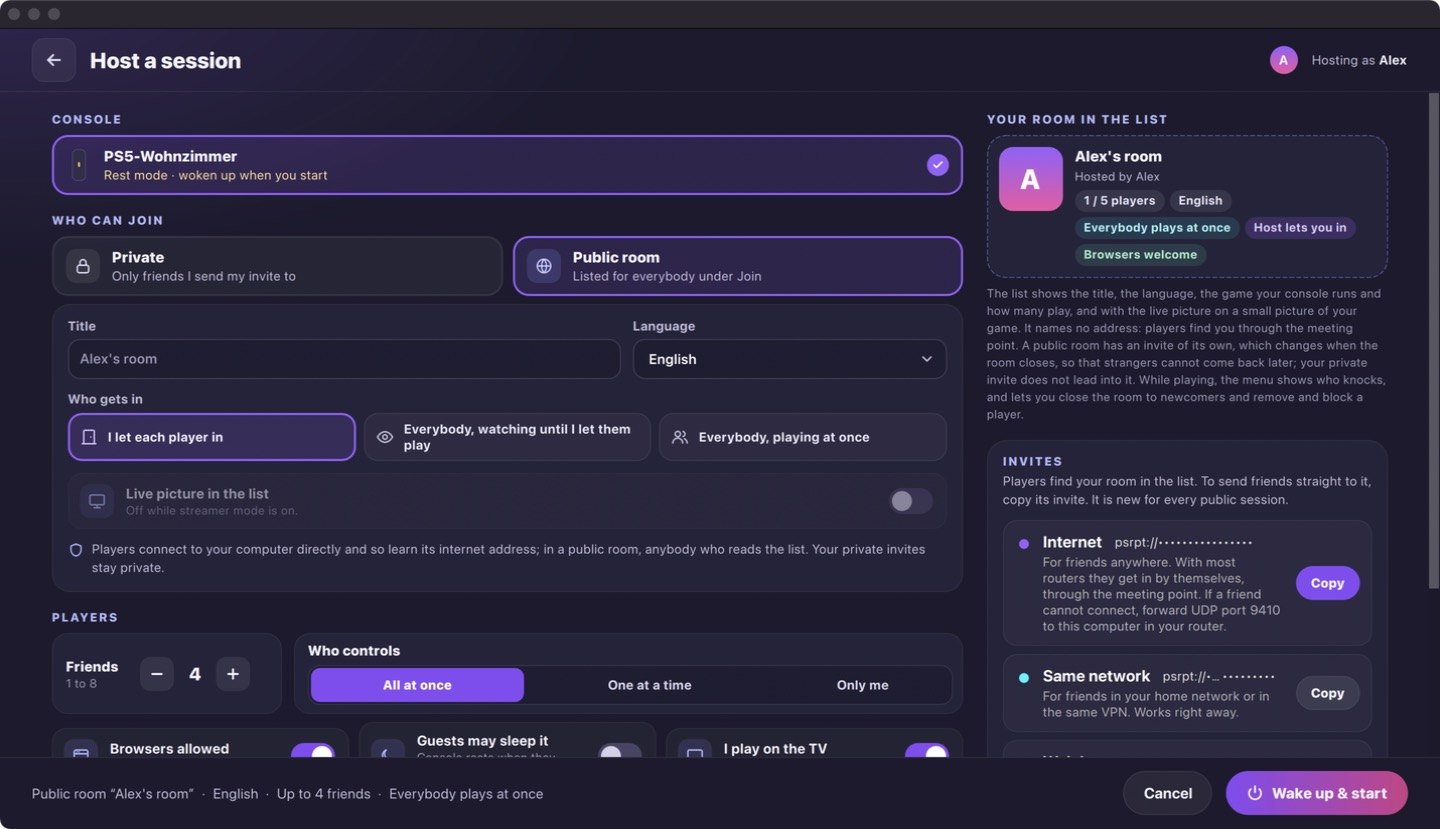
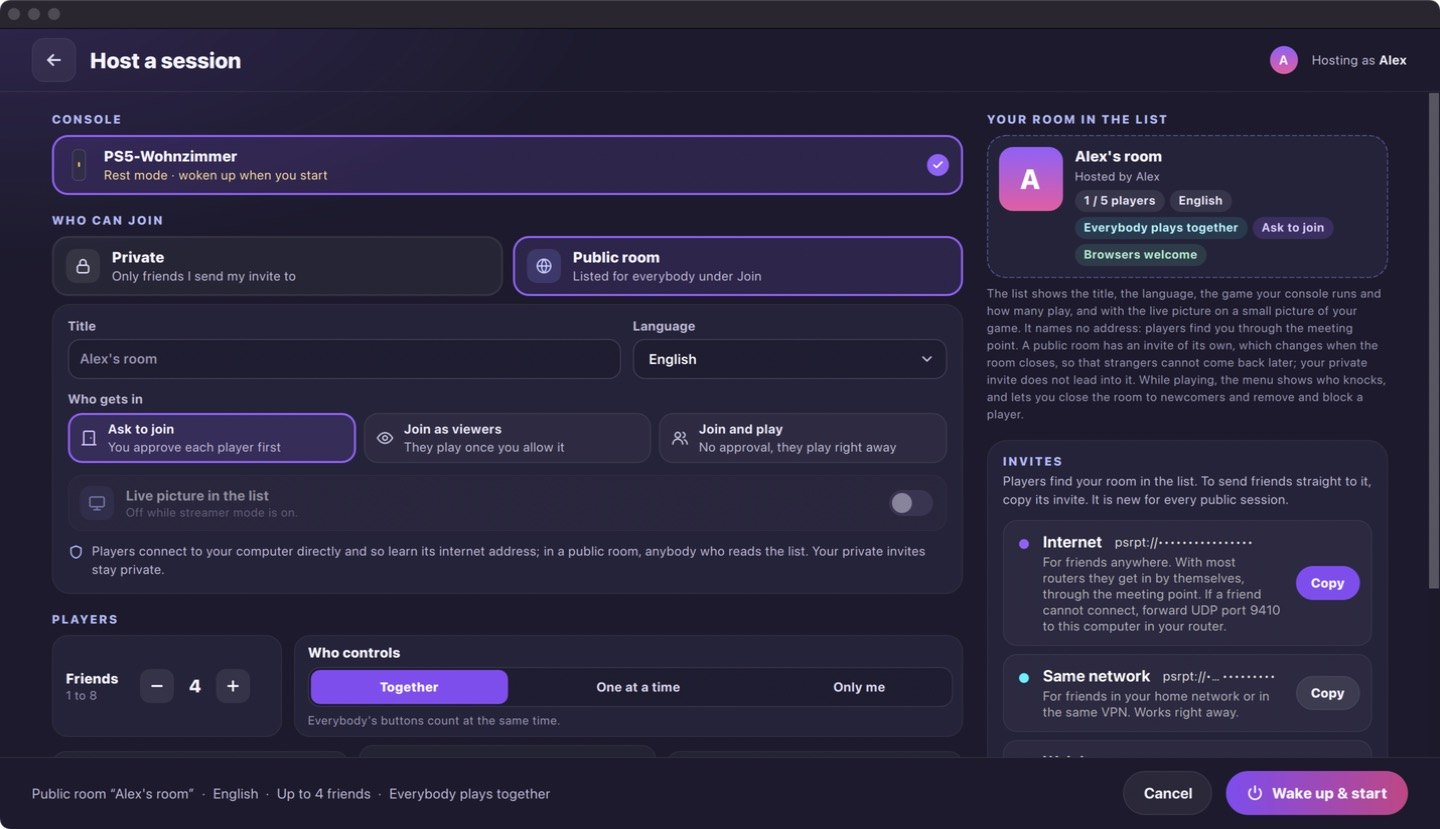
README: screenshots with the new option names
The Host page, the list of public rooms in the app and the page for
browsers showed the options as they were before 0.3.1 ("I let each player
in", "All at once", tags such as "Open"). New screenshots with the same
made-up rooms and players show Ask to join, Join as viewers, Join and
play and Together, and the "You decide who gets in" feature says the
same.

diff --git a/README.md b/README.md
@@ -146,7 +146,7 @@ Guests need **no PlayStation and no PSN account**. The invite contains the host'
     </td>
     <td width="50%">
       <h3>🚦 You decide who gets in</h3>
-      Let each player in yourself, let newcomers watch until you let them play, or open the door to everybody. Close the room to newcomers at any time, and remove a player, for good if you like.
+      <b>Ask to join</b>: you approve each player first. <b>Join as viewers</b>: they play once you allow it. <b>Join and play</b>: no approval needed. Close the room to newcomers at any time, and remove a player, for good if you like.
     </td>
   </tr>
   <tr>
